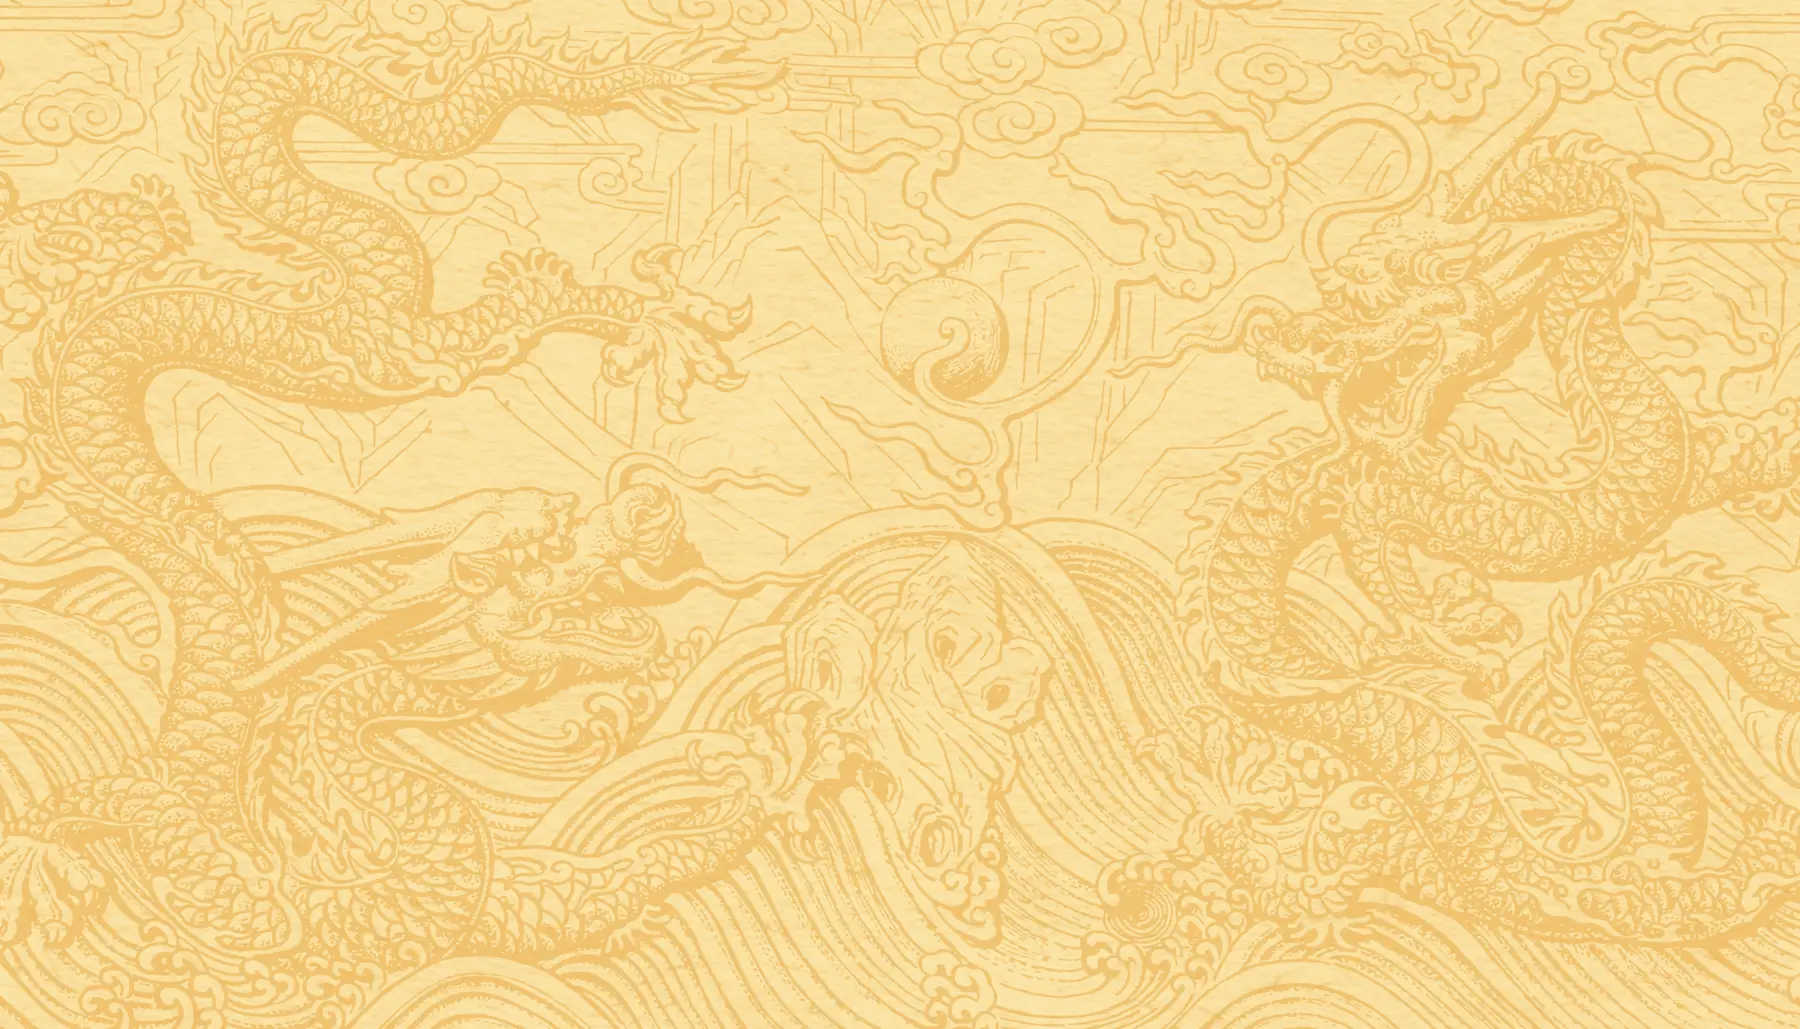
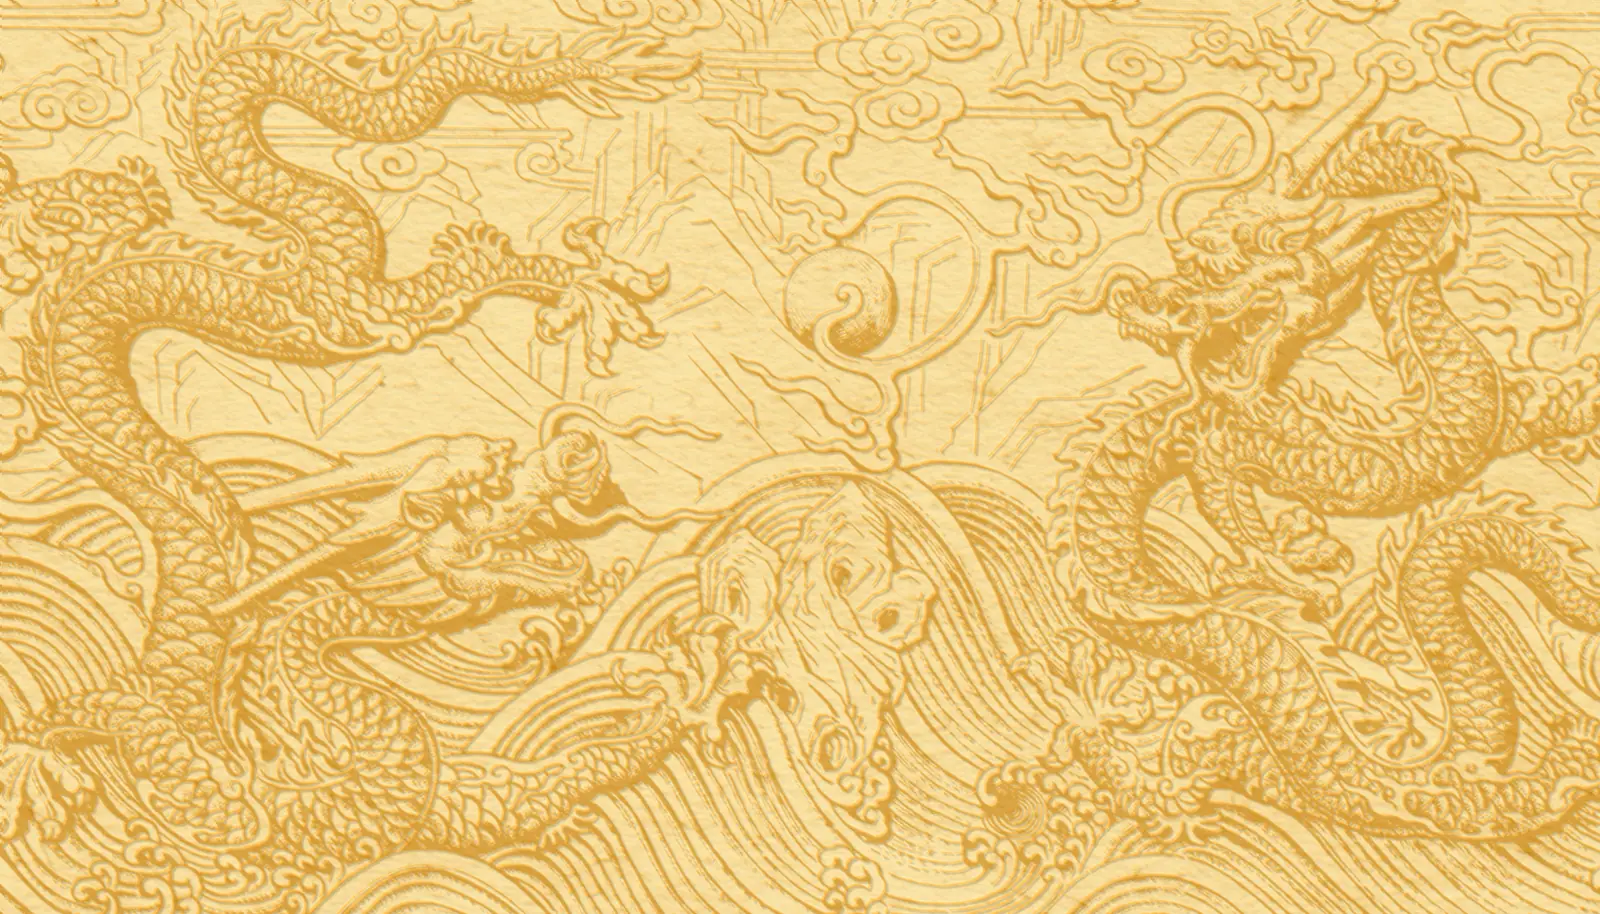
Khung ảnh thờ mạ vàng cho cụ Thủy tổ; Lưỡng long thu nhỏ + nổi; màu thẻ đúng theo giao diện — v1.14.1

diff --git a/app.js b/app.js
@@ -300,6 +300,7 @@
 
   /* =================== PHẢ ĐỒ =================== */
   var CW = 196, CH = 78, SG = 18, HG = 22, RH = 140;
+  var KHUNG_W = 100, KHUNG_H = 137; // khung ảnh thờ mạ vàng đặt trên thẻ cụ Thủy tổ
   var thuGon = new Set(doc('thugon', []));
   var V = { x: 0, y: 0, k: 1 }, chonId = null;
   var svg = $('#cay'), G = $('#cayG');
@@ -337,6 +338,18 @@
     var lop = 'the ' + (p.gioi === 'nu' ? 'nu' : 'nam') + (p.daMat ? ' mat' : '') + (p.dauRe ? ' dr' : '') + (p.id === chonId ? ' chon' : '') + (p.id === TOI ? ' toi' : '');
     var g = el('g', { 'class': lop, 'data-id': p.id, transform: 'translate(' + x + ',' + y + ')' }, cha);
     var vo = el('g', { 'class': 'vo' }, g);
+    if (p === DB.thuyTo) { // ảnh thờ trong khung vàng, dựng trên thẻ
+      var fx = (CW - KHUNG_W) / 2, fy = -KHUNG_H + 16, wx = fx + KHUNG_W * 0.223, wy = fy + KHUNG_H * 0.157, ww = KHUNG_W * 0.546, wh = KHUNG_H * 0.688;
+      var kt = el('g', { 'class': 'khung-to' }, vo);
+      var cp = el('clipPath', { id: 'cKhungTo' }, kt); el('rect', { x: wx, y: wy, width: ww, height: wh }, cp);
+      el('rect', { x: wx, y: wy, width: ww, height: wh, fill: p.gioi === 'nu' ? 'url(#gNu)' : 'url(#gNam)' }, kt);
+      var cc = chu(kt, wx + ww / 2, wy + wh / 2 + 12, tenGoi(p).charAt(0).toUpperCase(), 'chu-cai'); cc.setAttribute('text-anchor', 'middle'); cc.style.fontSize = '34px';
+      if (p.anh) {
+        var ia = el('image', { x: wx, y: wy, width: ww, height: wh, 'clip-path': 'url(#cKhungTo)', preserveAspectRatio: 'xMidYMid slice' }, kt);
+        ia.addEventListener('error', function () { thuLaiAnh(ia, function () { ia.remove(); }); }); ia.setAttribute('href', p.anh);
+      }
+      el('image', { x: fx, y: fy, width: KHUNG_W, height: KHUNG_H, href: 'nen/khung-to.webp' }, kt);
+    }
     // bóng mềm giả (2 lớp, không dùng filter để kéo thả mượt)
     el('rect', { 'class': 'bong2', x: -2, y: 4, width: CW + 4, height: CH + 4, rx: 22 }, vo);
     el('rect', { 'class': 'bong1', x: 0, y: 2.5, width: CW, height: CH + 1, rx: 20 }, vo);
@@ -439,7 +452,7 @@
       el('rect', { x: minX - 112, y: y - 14, width: 64, height: 28, rx: 14 }, nd);
       chu(nd, minX - 80, y + 4.5, 'Đời ' + d, '').setAttribute('text-anchor', 'middle');
     }
-    G._bien = { x0: minX - 122, x1: maxX + 30, y0: -30, y1: (maxDoi - 1) * RH + CH + 40 };
+    G._bien = { x0: minX - 122, x1: maxX + 30, y0: DB.thuyTo ? -30 - KHUNG_H + 16 : -30, y1: (maxDoi - 1) * RH + CH + 40 };
     if (!veCay._da) { veCay._da = true; svg.classList.add('cay-moi'); setTimeout(function () { svg.classList.remove('cay-moi'); }, 1600);
       G.querySelectorAll('.the .vo').forEach(function (v) { var d = DB.byId[v.parentNode.getAttribute('data-id')].doi; v.style.animationDelay = Math.min(d * 70, 700) + 'ms'; }); }
     if (!giuViTri) requestAnimationFrame(vuaKhung);
@@ -475,7 +488,7 @@
       var tam = (TOI && DB.byId[TOI] && DB.byId[TOI]._x != null) ? DB.byId[TOI] : DB.thuyTo;
       if (tam && tam._x != null) {
         k = Math.min(0.75, r.width / (CW * 2.2));
-        V.k = k; V.x = r.width / 2 - (tam._x + CW / 2) * k; V.y = (tam === DB.thuyTo ? 70 : r.height / 2.6) - (tam._y + CH / 2) * k; apV(); return;
+        V.k = k; V.x = r.width / 2 - (tam._x + CW / 2) * k; V.y = (tam === DB.thuyTo ? 70 + (KHUNG_H - 16) * k : r.height / 2.6) - (tam._y + CH / 2) * k; apV(); return;
       }
     }
     var nx = (r.width - w * k) / 2 - b.x0 * k, ny = 20 + Math.max(0, (r.height - 40 - h * k) / 2) - b.y0 * k;

diff --git a/style.css b/style.css
@@ -681,3 +681,11 @@ html[data-nen="luonglong"] { --nen: #f3dca2; --blob1: #f0c870; --blob2: #ffe7b0;
 html[data-nen="luonglong"] .nen-loang, html[data-nen="rongphuong"] .nen-loang { opacity: .5; }
 .ds-nen { grid-template-columns: repeat(auto-fill, minmax(66px, 1fr)); }
 .mau-nen[data-nen="rongphuong"] { background-color: #3a0c0c; background-size: 120% !important; }
+/* Lưỡng long: thu nhỏ cho thấy trọn hình rồng, lặp theo chiều dọc */
+html[data-nen="luonglong"] .hoa-van { background-size: 100% auto !important; background-repeat: repeat-y !important; background-position: center top !important; }
+@media (min-aspect-ratio: 3/2) { html[data-nen="luonglong"] .hoa-van { background-size: cover !important; background-repeat: no-repeat !important; } }
+.khung-to { filter: drop-shadow(0 6px 10px rgba(80, 40, 0, .35)); }
+.ios .khung-to { filter: none; }
+/* Giao diện cố định sáng/tối: màu thẻ theo giao diện, không theo chế độ tối của máy */
+html[data-nen="luonglong"] { --ns1: #edfaf1; --ns2: #d3f1dd; --nsv: #9fd8b1; --nv1: #f3f2f5; --nv2: #dfdde4; --nvv: #b8b4c0; --bong-the: rgba(110, 70, 20, .14); }
+html[data-nen="rongphuong"], html[data-nen="sonmai"] { --ns1: #1d3a2a; --ns2: #14301f; --nsv: #2f6b46; --nv1: #2c2b31; --nv2: #232228; --nvv: #4d4a55; }

diff --git a/index.html b/index.html
@@ -18,7 +18,7 @@
 <link rel="preconnect" href="https://fonts.gstatic.com" crossorigin>
 <link href="https://fonts.googleapis.com/css2?family=Noto+Serif+TC:wght@700&text=%E9%99%B3&display=swap" rel="stylesheet">
 <link href="https://fonts.googleapis.com/css2?family=Be+Vietnam+Pro:wght@400;500;600;700;800;900&display=swap" rel="stylesheet">
-<link rel="stylesheet" href="style.css?v=1.13.0">
+<link rel="stylesheet" href="style.css?v=1.14.1">
 </head>
 <body>
 <div class="nen-loang" aria-hidden="true"><i></i><i></i><i></i><i></i></div>
@@ -230,11 +230,11 @@
   </div>
 </div>
 
-<script src="config.js?v=1.13.0"></script>
-<script src="data-mau.js?v=1.13.0"></script>
-<script src="amlich.js?v=1.13.0"></script>
-<script src="db.js?v=1.13.0"></script>
-<script src="xungho.js?v=1.13.0"></script>
-<script src="app.js?v=1.13.0"></script>
+<script src="config.js?v=1.14.1"></script>
+<script src="data-mau.js?v=1.14.1"></script>
+<script src="amlich.js?v=1.14.1"></script>
+<script src="db.js?v=1.14.1"></script>
+<script src="xungho.js?v=1.14.1"></script>
+<script src="app.js?v=1.14.1"></script>
 </body>
 </html>

diff --git a/sw.js b/sw.js
@@ -1,5 +1,5 @@
 /* Cho app chạy khi mất mạng. Đổi PHIEN_BAN mỗi lần sửa app. */
-var PHIEN_BAN = 'giapha-1.13.0';
+var PHIEN_BAN = 'giapha-1.14.1';
 var TEP = ['./', 'index.html', 'style.css', 'app.js', 'db.js', 'xungho.js', 'amlich.js', 'config.js', 'data-mau.js',
   'manifest.webmanifest', 'icons/icon-192.png', 'icons/icon-512.png', 'icons/icon-180.png'];
 self.addEventListener('install', function (e) {
